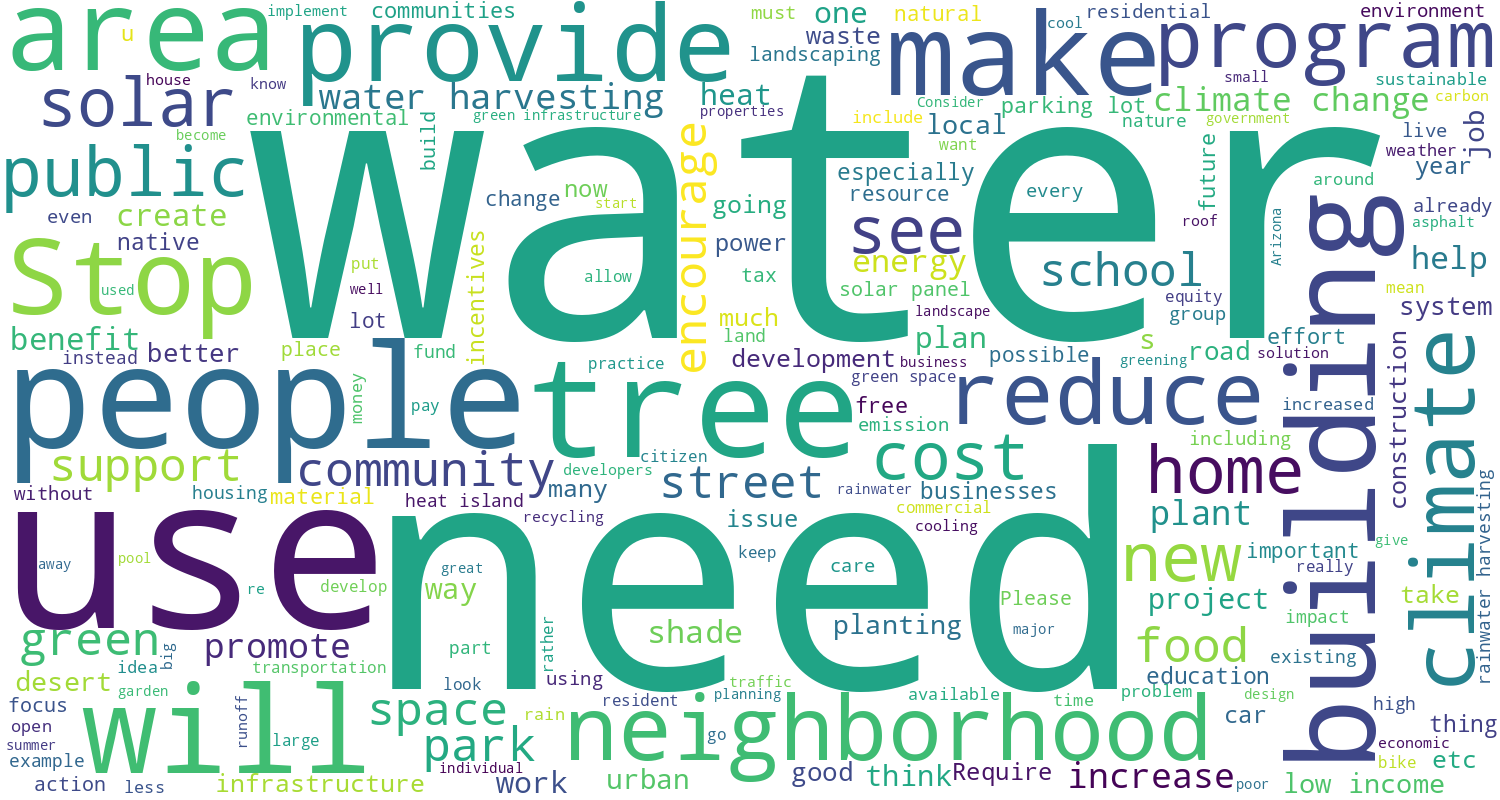
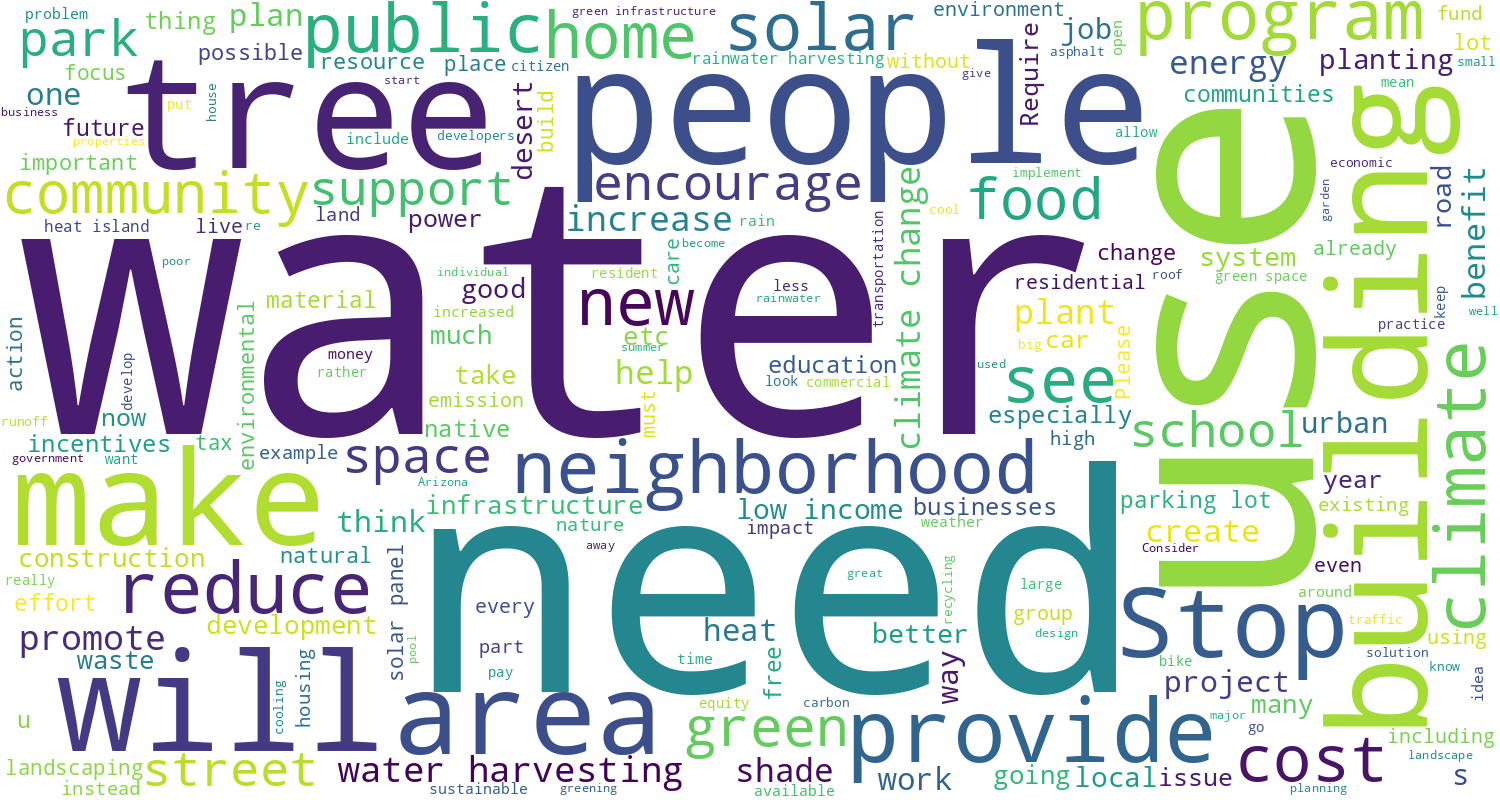
feat: execute saved model in a new term document matrix

diff --git a/app/services/analysis_service.py b/app/services/analysis_service.py
@@ -39,7 +39,6 @@ class AnalysisService(metaclass=SingletonMeta):
         )
 
         model = joblib.load(model_file_path)
-        print(model)
 
         for question in questions:
             q_df = pd.DataFrame()
@@ -58,13 +57,34 @@ class AnalysisService(metaclass=SingletonMeta):
             q_df = q_df.dropna()
             text = ', '.join(str(x) for x in q_df['answer'].values.tolist())
 
+            # Generate wordcloud for all question answers
             wordcloud_service.generate_wordcloud(
                 text=text,
                 title=questions[question],
                 file_path=f'resources/wordclouds/{question}.png'
             )
 
-            # model.predict(opinion)
+            # TODO: Generate the tdm for the questions answers
+            tdm_df = dataset_service.read_dataset(
+                file_path='resources/cleaned/tdm_bal_lab_respuestas_form_1671774115.csv',
+                encoding='utf-8',
+                delimiter=','
+            )
+
+            # Get word column names
+            word_columns = tdm_df.columns[2:].to_list()
+
+            # Delete unecessary columns
+            tdm_df = tdm_df.drop(columns=['answer', 'sentiment'])
+
+            # Convert word columns to categories
+            for column in word_columns:
+                tdm_df[column] = tdm_df[column].astype('category').cat.codes
+
+            # Do the predictions
+            predictions = model.predict(tdm_df)
+
+            print(predictions)
 
     def logistic_regression(
         self,
